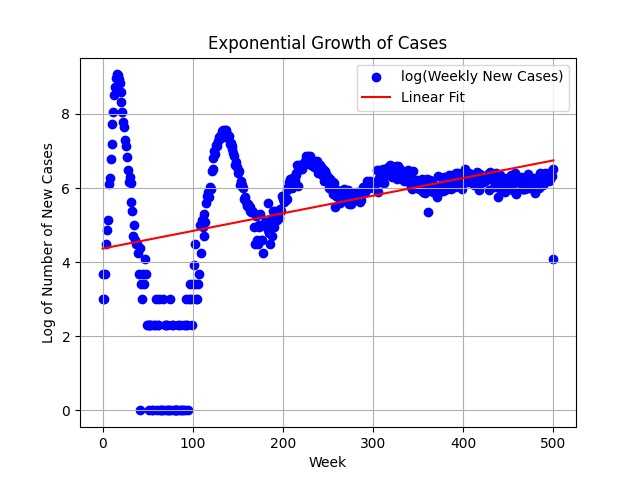
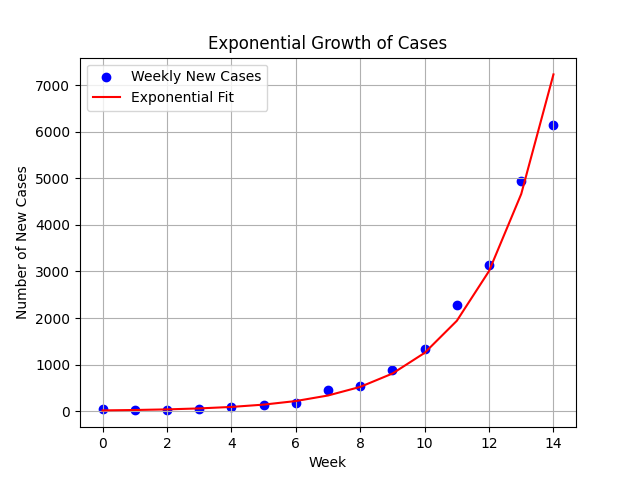
fixes

diff --git a/hw4/q1/exp.py b/hw4/q1/exp.py
@@ -7,7 +7,7 @@ import matplotlib.pyplot as plt
 data = pd.read_csv('all_weeks.csv')  # Adjust the filename to match your CSV file
 
 # Adjust for the ascertainment rate by increasing reported cases
-data['Adjusted_New_Cases'] = data['New Cases'] * 10 # Multiply by 10 for the ascertainment rate
+data['Adjusted_New_Cases'] = data['New Cases'] * 10  # Multiply by 10 for the ascertainment rate
 
 # Ensure adjusted incidence data does not contain zero or negative values
 data['Adjusted_New_Cases'] = np.maximum(data['Adjusted_New_Cases'], 1)  # Set minimum value to 1
@@ -21,27 +21,27 @@ x = np.arange(len(weekly_new_cases))
 # For simplicity, let's assume the first few weeks represent the exponential growth phase
 # You might need to adjust this based on the data
 start_week = 0
-end_week = len(weekly_new_cases)  # Use all weeks from the dataset
+end_week = 15 # len(weekly_new_cases)  # Use all weeks from the dataset
 
 # Subset the data for the exponential growth phase
 x_subset = x[start_week:end_week]
-y_subset = np.log(weekly_new_cases[start_week:end_week])  # Logarithm of adjusted incidence data
+y_subset = weekly_new_cases[start_week:end_week]  # Actual number of adjusted weekly new cases
 
 # Step 4: Fit a linear regression model to estimate the slope (m)
 X = x_subset.reshape(-1, 1)  # Reshape X for linear regression
-reg = LinearRegression().fit(X, y_subset)
+reg = LinearRegression().fit(X, np.log(y_subset))  # Fit model using logarithm of y_subset for exponential growth
 slope = reg.coef_[0]
 
 # Step 5: Estimate R0
-gamma = 1/2  # duration of infection
-mu = 1/100   # typical life expectancy
+gamma = 1 / 2  # duration of infection
+mu = 1 / 100   # typical life expectancy
 R0 = 1 + (slope / (gamma + mu))
 
 # Step 6: Plot the scatterplot of weekly new cases and overlay the exponential fit
-plt.scatter(x_subset, y_subset, label='log(Weekly New Cases)', color='blue')  # Plot log(weekly_new_cases) directly
-plt.plot(x_subset, reg.predict(X), 'r-', label='Linear Fit')
+plt.scatter(x_subset, y_subset, label='Weekly New Cases', color='blue')  # Plot actual number of cases
+plt.plot(x_subset, np.exp(reg.predict(X)), 'r-', label='Exponential Fit')  # Plot exponential fit
 plt.xlabel('Week')
-plt.ylabel('Log of Number of New Cases')
+plt.ylabel('Number of New Cases')
 plt.title('Exponential Growth of Cases')
 plt.legend()
 plt.grid(True)

diff --git a/hw4/q3/assay.py b/hw4/q3/assay.py
@@ -69,7 +69,6 @@ def get_theta_hat(se, sp, phi_hat):
         theta_hat = max(0, (phi_hat - (1 - sp)) / (se + sp - 1))
         return theta_hat
 
-
 def get_youden_j_c(se_c, sp_c):
     J_c = se_c + sp_c - 1
     return J_c
